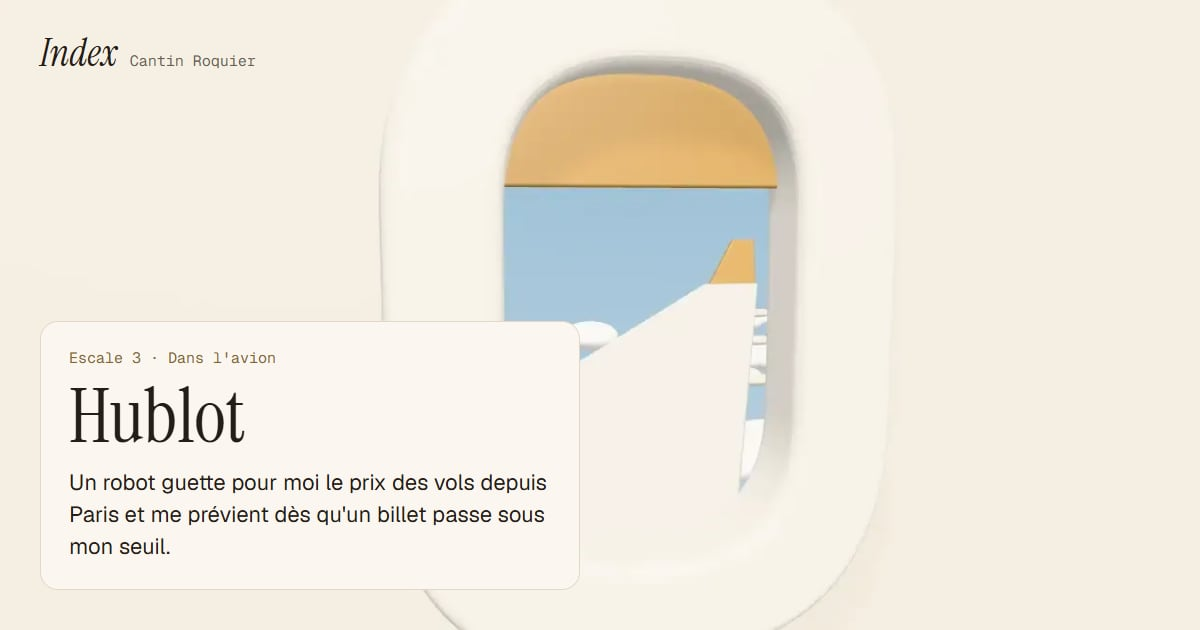
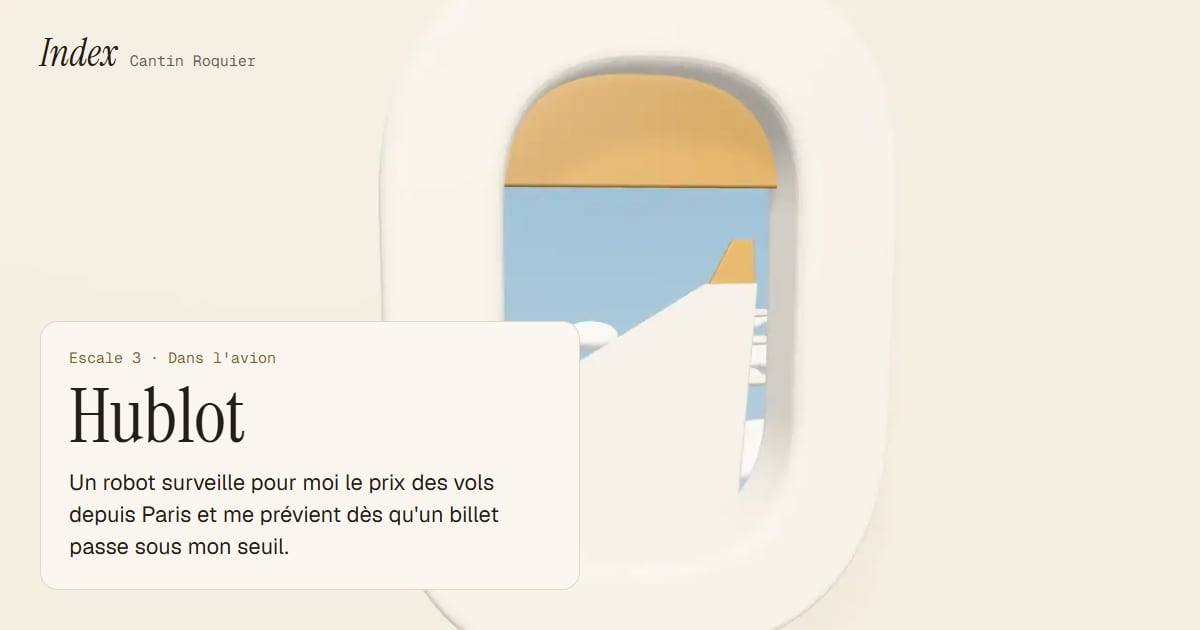
fix(portfolio): les textes relus par Cantin
- L'accueil : « Ici, chaque projet devient un objet du décor ».
- Hublot : le robot « surveille » le prix des vols, plus « guette » (et son
  aperçu de partage rephotographié).
- Le carnet : l'intro tient en une ligne.
- À propos : plus de durée qui vieillit (« six ans », « de 2022 à 2026 ») :
  « depuis 2020 », « depuis 2022 ».

Changed region(s): [[0.0617, 0.754, 0.4625, 0.9048]]

diff --git a/apps/portfolio/src/data/apropos.ts b/apps/portfolio/src/data/apropos.ts
@@ -97,7 +97,7 @@ export const APROPOS: Record<Lang, AproposStrings> = {
     role: "Ingénieur développeur fullstack & mobile",
     where: "Brunoy (91), près de Paris",
     status: "Ingénieur en CDI chez la STIME",
-    lead: "Ingénieur diplômé de l'EFREI, j'ai six ans d'expérience à la DSI du Groupement Les Mousquetaires : je conçois des applications web et mobiles utilisées à grande échelle, du recueil des besoins jusqu'à la mise en production.",
+    lead: "Ingénieur diplômé de l'EFREI, je travaille depuis 2020 à la DSI du Groupement Les Mousquetaires : je conçois des applications web et mobiles utilisées à grande échelle, du recueil des besoins jusqu'à la mise en production.",
     write: "M'écrire",
     linkedin: "https://fr.linkedin.com/in/cantin-roquier-2a0a50228",
     alt: "Mon passeport sur le bureau : à gauche, la page d'identité et mon monogramme ; à droite, un visa par projet, chacun à l'encre de son escale. Le tampon de laiton passe par l'encreur et pose un nouveau visa : INDEX 2026.",
@@ -168,7 +168,7 @@ export const APROPOS: Record<Lang, AproposStrings> = {
           ],
         ],
       },
-      projects: `Et en parallèle, ${inWords("fr", projects.length)} projets à moi, de 2022 à 2026 : chaque escale de ce site, et le site lui-même.`,
+      projects: `Et en parallèle, ${inWords("fr", projects.length)} projets à moi depuis 2022 : chaque escale de ce site, et le site lui-même.`,
       projectsLink: "Revoir le voyage →",
     },
     langs: [
@@ -209,7 +209,7 @@ export const APROPOS: Record<Lang, AproposStrings> = {
     role: "Full-stack & mobile software engineer",
     where: "Brunoy, Paris area, France",
     status: "Engineer at STIME, on a permanent contract",
-    lead: "An EFREI Paris engineer with six years in the IT department of Les Mousquetaires Group (Intermarché), I build web and mobile apps used at scale, from requirements gathering to production release.",
+    lead: "An EFREI Paris engineer, I have worked in the IT department of Les Mousquetaires Group (Intermarché) since 2020, building web and mobile apps used at scale, from requirements gathering to production release.",
     write: "Email me",
     linkedin: "https://www.linkedin.com/in/cantin-roquier-2a0a50228",
     alt: "My passport on the desk: on the left, the identity page and my monogram; on the right, one visa per project, each in the ink of its stop. The brass stamp dips into the ink pad and adds a new visa: INDEX 2026.",
@@ -280,7 +280,7 @@ export const APROPOS: Record<Lang, AproposStrings> = {
           ],
         ],
       },
-      projects: `And alongside, ${inWords("en", projects.length)} projects of my own, from 2022 to 2026: every stop on this site, and the site itself.`,
+      projects: `And alongside, ${inWords("en", projects.length)} projects of my own since 2022: every stop on this site, and the site itself.`,
       projectsLink: "Back to the journey →",
     },
     langs: [

diff --git a/apps/portfolio/src/data/voyage.ts b/apps/portfolio/src/data/voyage.ts
@@ -78,7 +78,7 @@ export const STOP_TEXTS: Record<Lang, Record<string, StopText>> = {
       place: "Dans l'avion",
       alt: "Dans l'avion : par le hublot, l'aile, son réacteur et son winglet de laiton, au-dessus d'une mer de nuages.",
       kind: "Robot et page web · 2026 · En ligne",
-      pitch: "Un robot guette pour moi le prix des vols depuis Paris et me prévient dès qu'un billet passe sous mon seuil.",
+      pitch: "Un robot surveille pour moi le prix des vols depuis Paris et me prévient dès qu'un billet passe sous mon seuil.",
       cta: "Regarder par le hublot",
     },
     "metro-pathfinder": {
@@ -217,7 +217,7 @@ export const VOYAGE: Record<Lang, Record<string, string>> = {
     introLabel: "Index · depuis 2022",
     introTitle: `Un voyage en ${inWords("fr", STOPS.length)} <em>escales</em>.`,
     introText:
-      "Je fabrique les outils qui me manquent. Ici, chacun devient un objet du décor : la planète, l'avion, le hublot, la station… Clique dessus pour passer à l'escale suivante.",
+      "Je fabrique les outils qui me manquent. Ici, chaque projet devient un objet du décor : la planète, l'avion, le hublot, la station… Clique dessus pour passer à l'escale suivante.",
     takeOff: "Décoller →",
     openApp: "Ouvrir une app",
     seeAll: "Voir tous les projets",
@@ -245,7 +245,7 @@ export const VOYAGE: Record<Lang, Record<string, string>> = {
     introLabel: "Index · since 2022",
     introTitle: `A journey in ${inWords("en", STOPS.length)} <em>stops</em>.`,
     introText:
-      "I build the tools I'm missing. Here, each one becomes part of the scenery: the planet, the plane, the window, the station… Click it to fly on to the next stop.",
+      "I build the tools I'm missing. Here, each project becomes part of the scenery: the planet, the plane, the window, the station… Click it to fly on to the next stop.",
     takeOff: "Take off →",
     openApp: "Open an app",
     seeAll: "See all projects",

diff --git a/apps/portfolio/src/data/carnet.ts b/apps/portfolio/src/data/carnet.ts
@@ -66,7 +66,7 @@ export const CARNET: Record<Lang, CarnetStrings> = {
     description: `Les ${inWords("fr", projects.length)} projets de Cantin Roquier, escale par escale : chaque carte ouvre la fiche du projet, et chaque app s'ouvre d'ici.`,
     label: "Fin du voyage",
     title: "Le carnet de <em>voyage</em>",
-    intro: `Les ${inWords("fr", projects.length)} projets, escale par escale. Chaque carte ouvre la fiche du projet ; son escale reste à un clic.`,
+    intro: `Les ${inWords("fr", projects.length)} projets, escale par escale : chaque carte ouvre sa fiche.`,
     revisit: "Revoir l'escale →",
     revisitAria: "Revoir l'escale {n} : {place}",
     shelf: "Sur l'étagère aussi : {list}",
@@ -92,7 +92,7 @@ export const CARNET: Record<Lang, CarnetStrings> = {
     description: `Cantin Roquier's ${inWords("en", projects.length)} projects, stop by stop: each card opens the project page, and every app opens from here.`,
     label: "End of the journey",
     title: "The travel <em>journal</em>",
-    intro: `All ${inWords("en", projects.length)} projects, stop by stop. Each card opens the project page; its stop is one click away.`,
+    intro: `All ${inWords("en", projects.length)} projects, stop by stop: each card opens its page.`,
     revisit: "Back to the stop →",
     revisitAria: "Back to stop {n}: {place}",
     shelf: "Also on the shelf: {list}",
